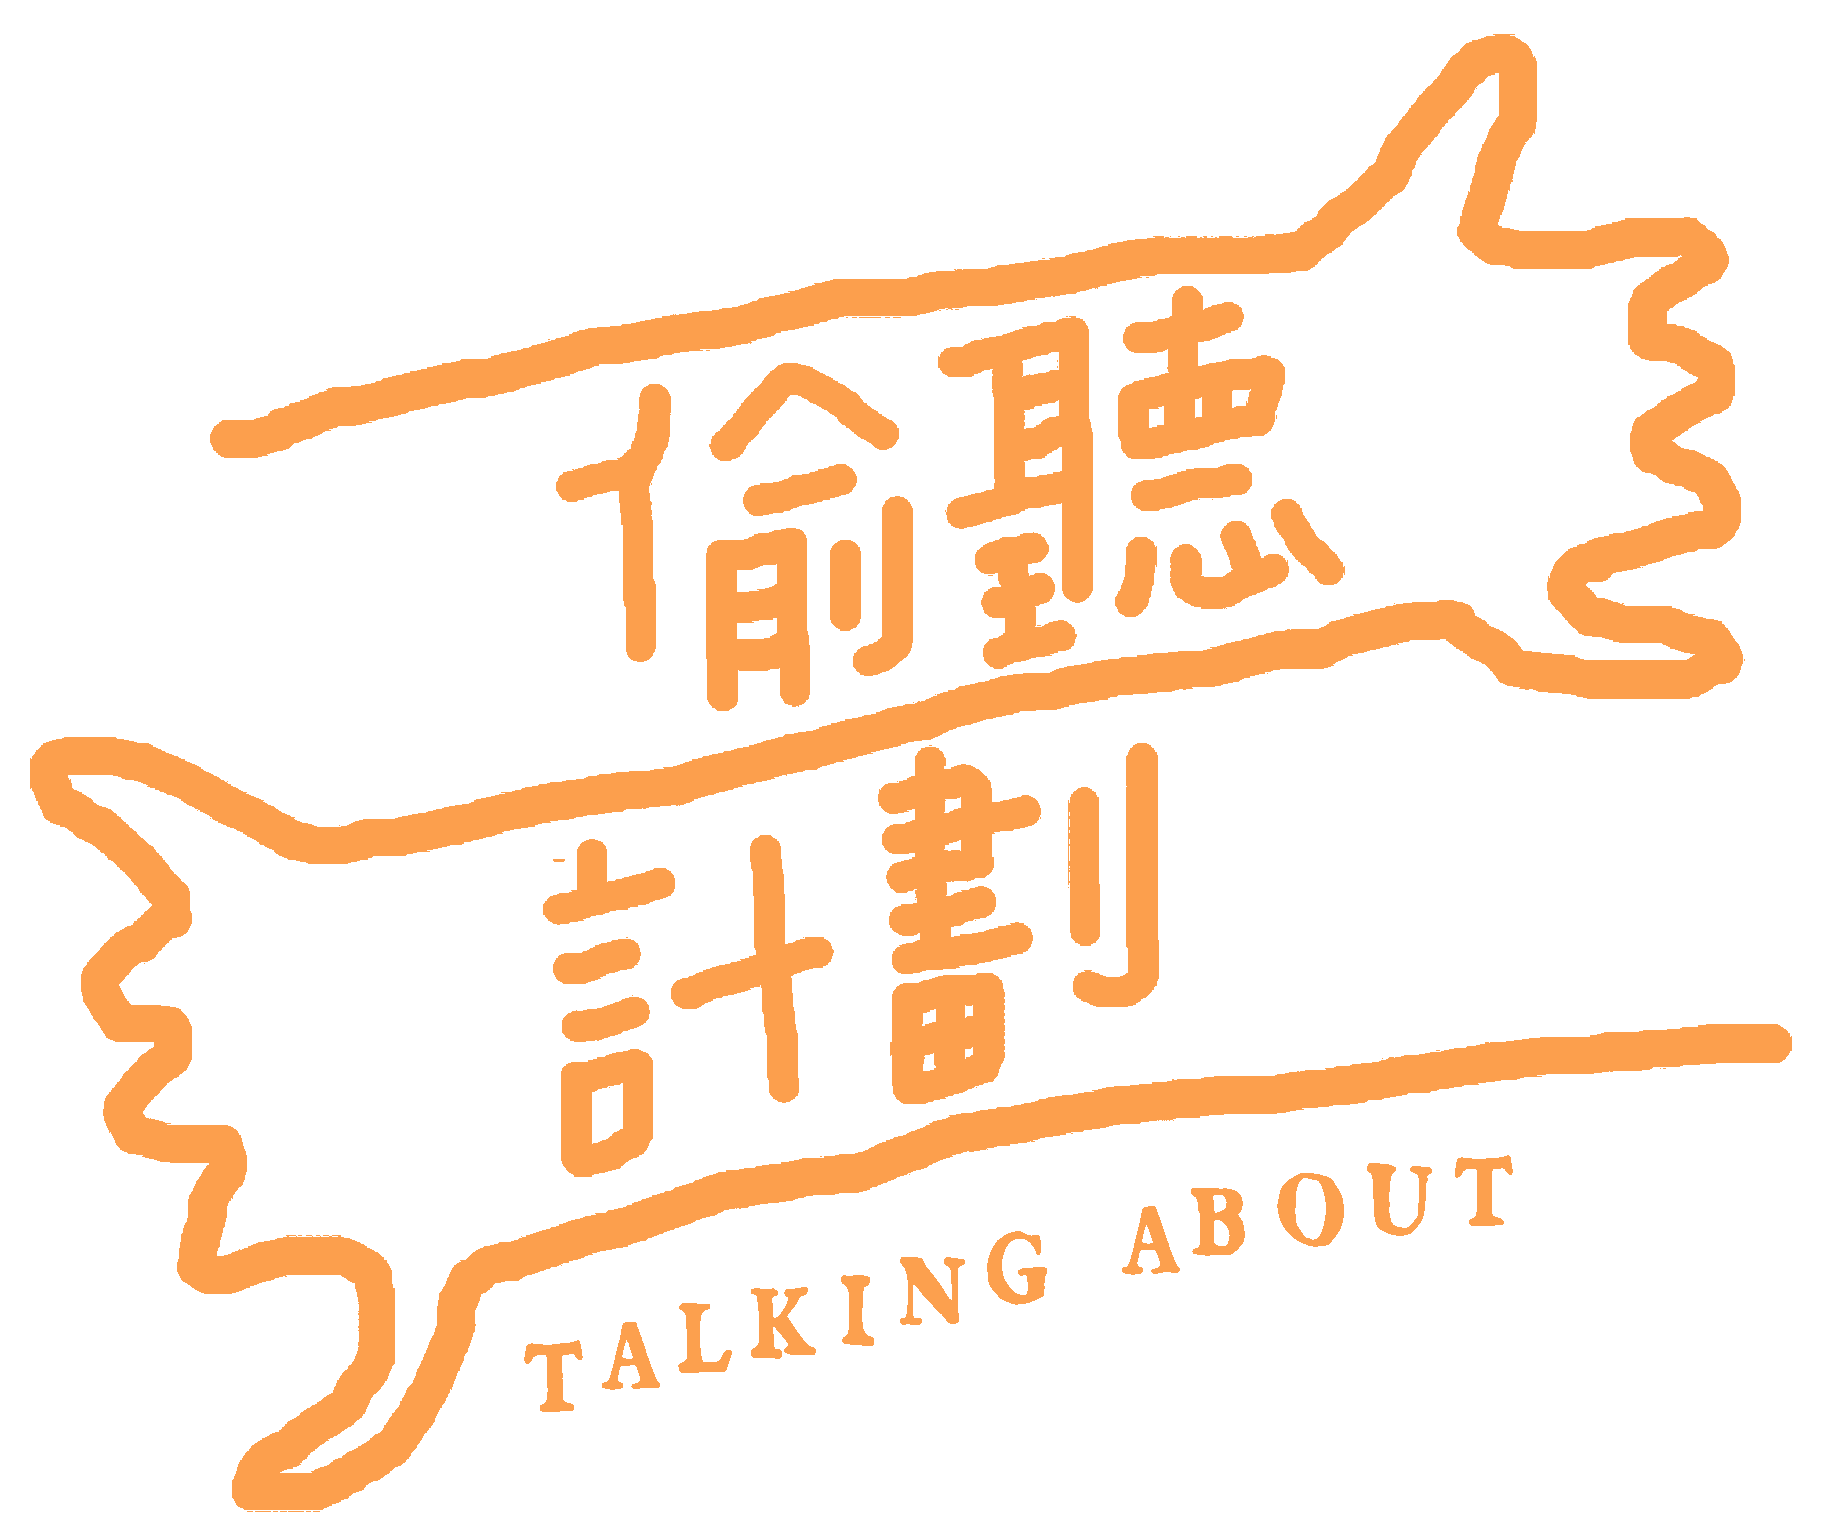
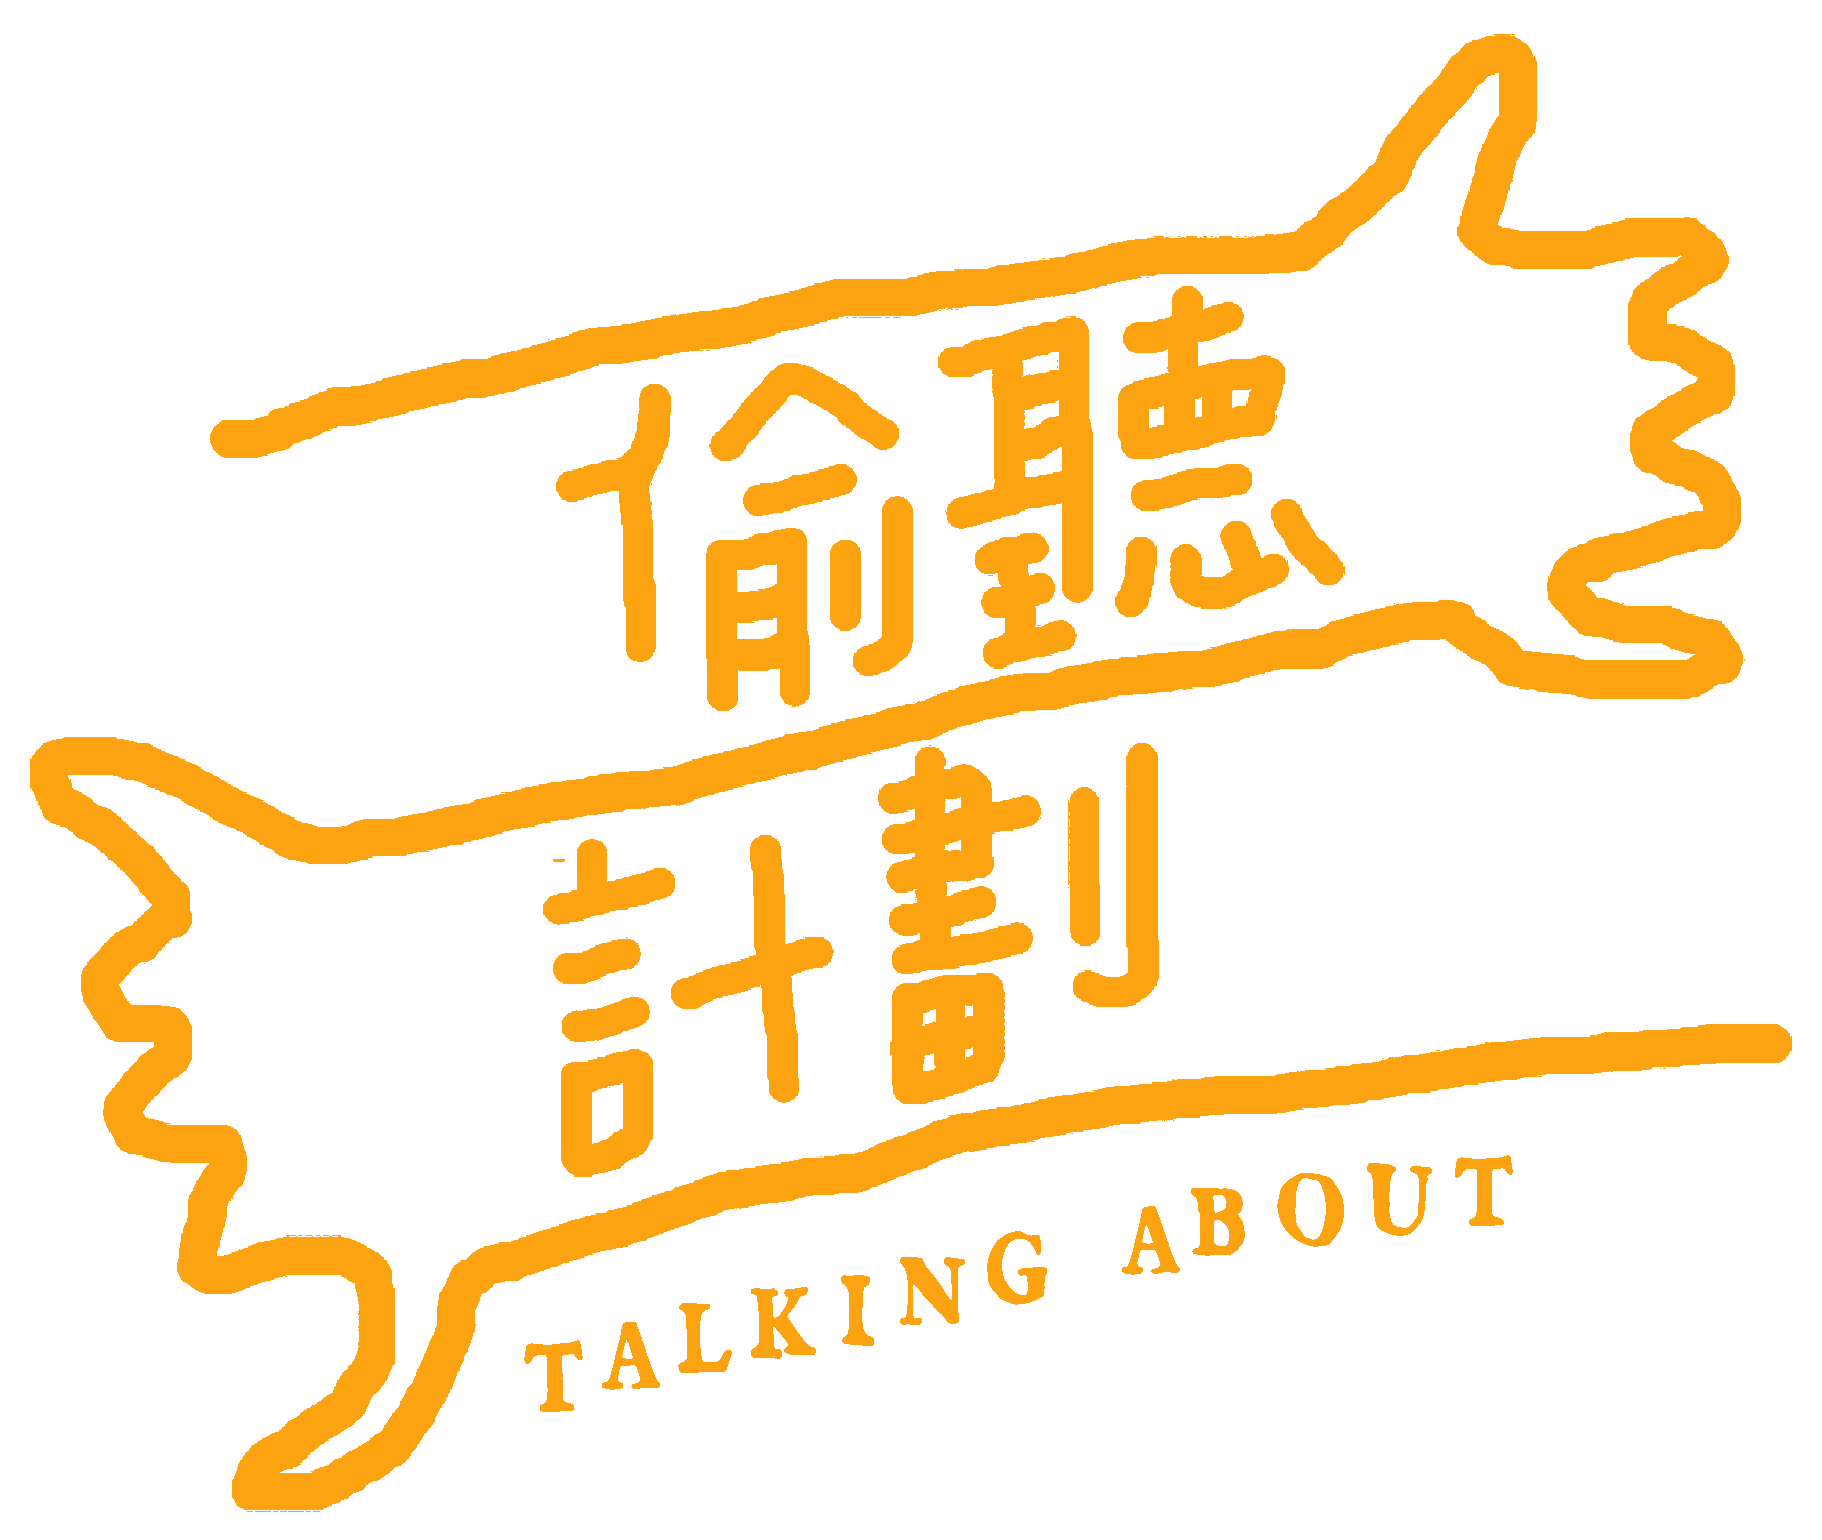
更新logo圖 banner圖

Changed region(s): [[0.0, 0.0, 0.9835, 0.9974]]

diff --git a/index.html b/index.html
@@ -60,8 +60,8 @@
         <div class="container d-flex">
             <div class="cursor col-12 col-lg-4 logo d-flex greenW font-weight-normal justify-content-lg-start justify-content-center align-items-center">
                 <a id="btn_header" href="#header" class="logo">
-                    <img src="./img/03.png" alt="" class=" d-none d-lg-flex">
-                    <img src="./img/02.png" alt="" class=" d-lg-none d-flex my-2">
+                    <img src="https://i.imgur.com/Q5sexOh.png" alt="" class=" d-none d-lg-flex">
+                    <img src="https://i.imgur.com/Q5sexOh.png" alt="" class=" d-lg-none d-flex my-2">
                 </a>
                 <!-- <p class=" m-0 d-none d-lg-flex">偷聽兒報</p> -->
             </div>

diff --git a/css/index1.css b/css/index1.css
@@ -252,7 +252,8 @@
     }
     
     .img01 {
-        background-image: url(https://images.unsplash.com/photo-1502487901474-c6c3cc90521d?auto=format&fit=crop&w=1031&q=60&ixid=dW5zcGxhc2guY29tOzs7Ozs%3D);
+        /* background-image: url(https://images.unsplash.com/photo-1502487901474-c6c3cc90521d?auto=format&fit=crop&w=1031&q=60&ixid=dW5zcGxhc2guY29tOzs7Ozs%3D); */
+        background-image: url(https://i.imgur.com/7es8qxR.png);
         height: 500px;
         background-repeat: no-repeat;
         background-position: center center;

diff --git a/idea.html b/idea.html
@@ -108,7 +108,7 @@
         <header>
 
             <nav class="d-flex container p-2 px-xl-5 mt-xl-3">
-                <img src="/img/logo.png" alt="">
+                <img src="https://i.imgur.com/7h3T3Lo.png" alt="">
             </nav>
 
             <div id="carouselExampleIndicators" class="carousel slide up2" data-ride="carousel">
